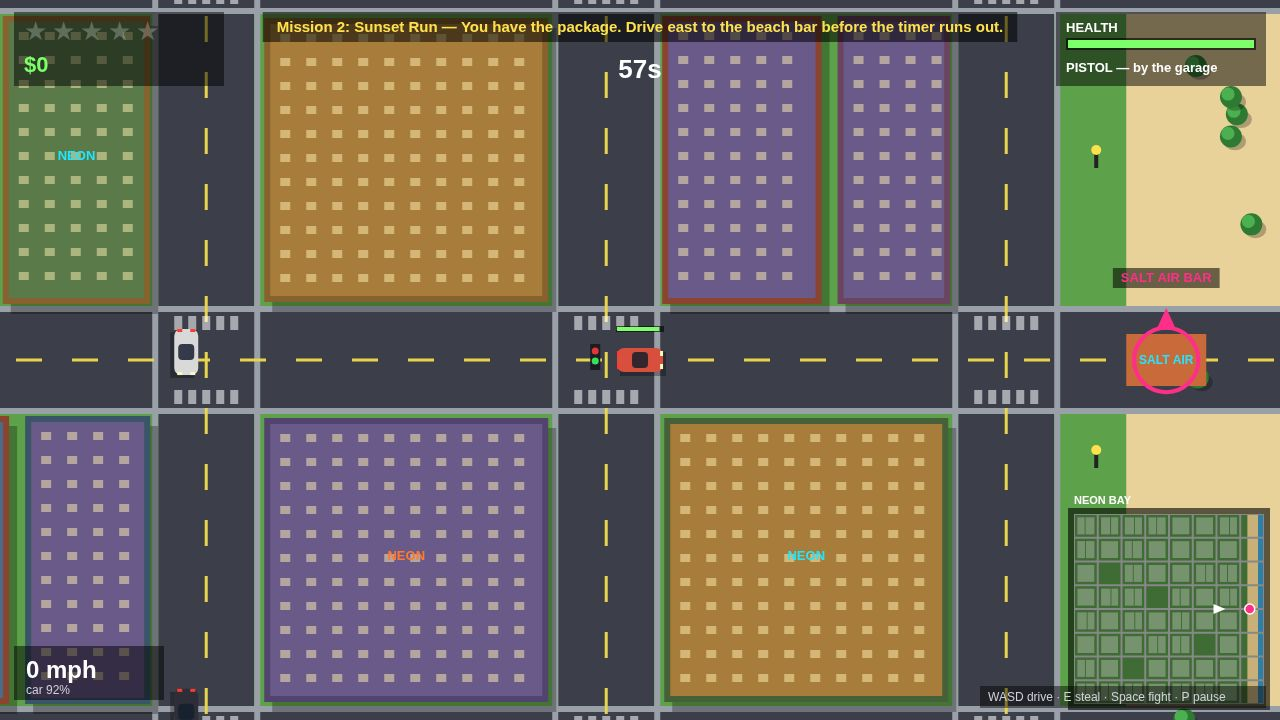
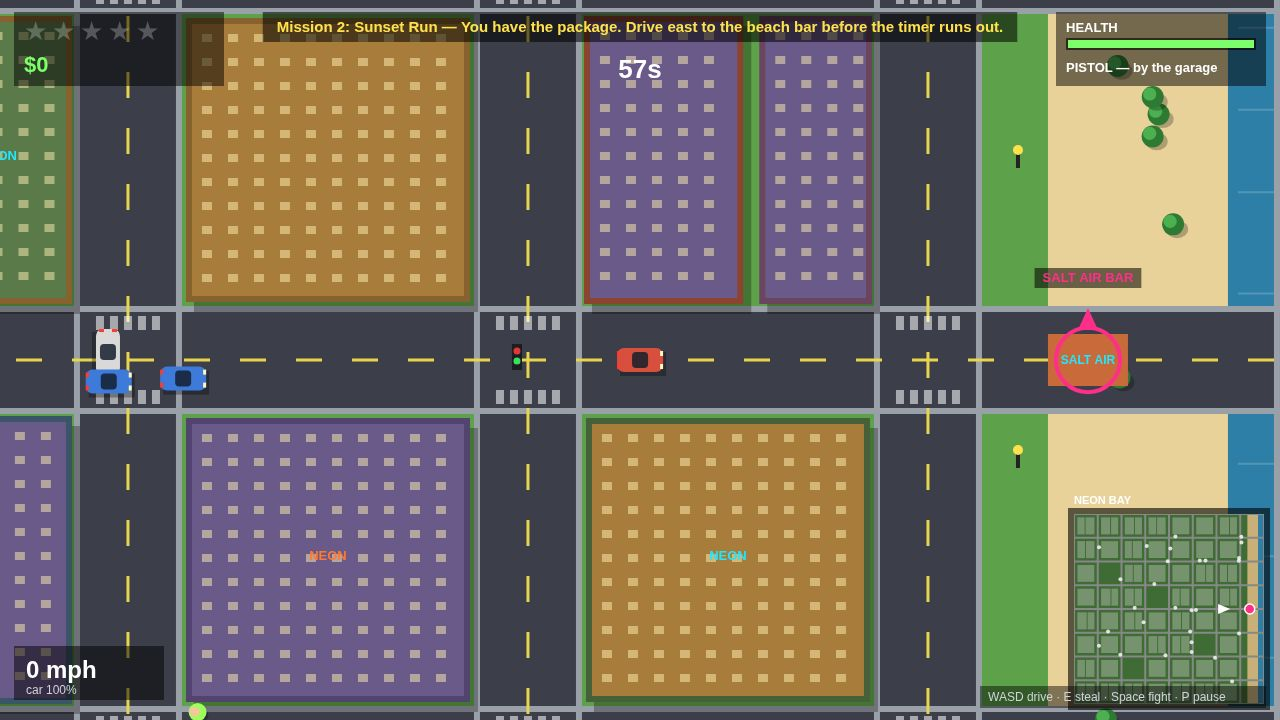
Fix browser-playtest blockers: survivable police rams, denser traffic, E cooldown, click-to-shoot, reachable garage/safehouse
- Police rams hurt the CAR only (no player damage through the car);
  one ram per 1.5s across all cruisers, 2s per-cruiser cooldown, cruisers
  back off after ramming and hold at 80px otherwise (no pinning)
- Traffic 14 -> 28 cars, replacements spawn near the player, 6s light
  cycle, stuck cars respawn after 8s, overlapping cars separated;
  minimap shows traffic dots
- E has a 0.7s cooldown after stealing/exiting (no double-press exit)
- Mouse click/hold shoots the pistol (rate-limited, muzzle flash, tracer)
- Garage and safehouse moved onto streets: both old spots sat inside
  buildings and were unreachable (mission 1/3/5 could never complete)
- Screenshots regenerated

diff --git a/game/src/world.js b/game/src/world.js
@@ -8,7 +8,7 @@
   const CFG = NBN.CFG;
 
   const CAR_COLORS = ['#d94f3d', '#3d7ad9', '#e8c33d', '#7a3dd9', '#3dd9a0', '#d9d9d9', '#2e2e38', '#e07a2e'];
-  const MAX_TRAFFIC = 14;
+  const MAX_TRAFFIC = CFG.TRAFFIC_MAX;
   const MAX_PEDS = 22;
 
   let S = null; // world state
@@ -17,6 +17,7 @@
     return {
       x, y, angle, speed: 0, kind, color: color || NBN.pick(CAR_COLORS),
       health: 100, dir: 0, street: 0, turnAt: 0, stopped: false, ramCd: 0, crashCd: 0,
+      backoff: 0, stuckT: 0,
       siren: kind === 'police', ai: kind === 'traffic' || kind === 'police',
     };
   }
@@ -29,7 +30,7 @@
         x: p.x, y: p.y, angle: -Math.PI / 2, speed: 0,
         health: CFG.PLAYER_HEALTH, money: save ? save.money : 0,
         wanted: 0, inCar: null, invuln: CFG.SPAWN_INVULN_SECONDS,
-        ammo: 0, hasPistol: false, punchCd: 0, lastHit: {},
+        ammo: 0, hasPistol: false, punchCd: 0, carCd: 0, lastHit: {},
         quietTime: 0, lastCrime: -99, sprinting: false,
       },
       cars: [],
@@ -41,6 +42,7 @@
       floats: [], // floating text {x,y,txt,life,color}
       flash: 0, // red damage vignette 0..1
       shake: 0,
+      ramGate: -99, // time of the last police ram (any cruiser): one ram per gate
       missionsDone: save ? save.missionsDone.slice() : [],
       bestWanted: save ? save.bestWanted : 0,
       over: null, // 'wasted' | 'busted' | null
@@ -52,9 +54,14 @@
 
   function init(save) {
     S = newState(save);
-    // Parked cars around the city, plus a few near spawn.
-    for (let i = 0; i < 9; i++) {
+    // Parked cars around the city, plus two near spawn so the first steal
+    // (mission 1) is a short walk, not a blind hunt across the city.
+    for (let i = 0; i < CFG.PARKED_CARS; i++) {
       const spot = randomRoadSpot();
+      S.cars.push(makeCar(spot.x, spot.y, spot.angle, 'parked'));
+    }
+    for (let i = 0; i < 2; i++) {
+      const spot = nearSpawnSpot();
       S.cars.push(makeCar(spot.x, spot.y, spot.angle, 'parked'));
     }
     // The marked yellow coupe for mission 4, parked in its lot.
@@ -80,8 +87,28 @@
     return { x: 1200, y: 1200, angle: 0 };
   }
 
+  // A road spot close to the spawn park (for the two starter parked cars).
+  function nearSpawnSpot() {
+    const p = NBN.PLACES.spawnPark;
+    for (let tries = 0; tries < 30; tries++) {
+      const spot = randomRoadSpot();
+      if (NBN.dist(spot.x, spot.y, p.x, p.y) < 650) return spot;
+    }
+    return { x: 420, y: 1000, angle: 0 };
+  }
+
   function spawnTrafficCar(anywhere) {
-    const spot = randomRoadSpot();
+    // Replacement cars spawn near the player (550–1100px away) so the streets
+    // around them stay busy; the initial batch may spawn anywhere.
+    let spot = randomRoadSpot();
+    if (!anywhere) {
+      for (let tries = 0; tries < 12; tries++) {
+        const cand = randomRoadSpot();
+        const d = NBN.dist(cand.x, cand.y, S.player.x, S.player.y);
+        spot = cand;
+        if (d > 550 && d < 1100) break;
+      }
+    }
     const c = makeCar(spot.x, spot.y, spot.angle, 'traffic');
     // Align to a street lane and pick a heading.
     const gx = Math.round(c.x / CFG.GRID) * CFG.GRID;
@@ -227,7 +254,9 @@
 
   function shoot() {
     const p = S.player;
-    if (p.inCar || !p.hasPistol || p.ammo <= 0 || S.over) return;
+    // punchCd is the fire-rate gate: one shot per 0.28s, whether the trigger
+    // is a Space press or a held mouse button.
+    if (p.inCar || !p.hasPistol || p.ammo <= 0 || p.punchCd > 0 || S.over) return;
     p.ammo--;
     p.punchCd = 0.28;
     NBN.audio.gunshot();
@@ -237,6 +266,8 @@
       x: p.x + Math.cos(a) * 22, y: p.y + Math.sin(a) * 22,
       vx: Math.cos(a) * 640, vy: Math.sin(a) * 640, life: 0.9, from: 'player',
     });
+    // Muzzle flash at the gun tip so the shot is unmistakable.
+    spawnBurst(p.x + Math.cos(a) * 26, p.y + Math.sin(a) * 26, '#ffe14d', 4);
     S.shake = Math.max(S.shake, 2);
   }
 
@@ -336,6 +367,41 @@
       const i = S.cars.indexOf(c);
       if (i >= 0) S.cars.splice(i, 1);
       spawnTrafficCar(false);
+      return;
+    }
+    // Stuck recovery: a car that has not moved for 8 seconds is in a jam that
+    // will never clear (deadlocked queue, abandoned player car, bad light) —
+    // respawn it on a fresh street instead of sitting there for minutes.
+    if (c.speed < 5) c.stuckT += dt;
+    else c.stuckT = 0;
+    if (c.stuckT > 8) {
+      const i = S.cars.indexOf(c);
+      if (i >= 0) S.cars.splice(i, 1);
+      spawnTrafficCar(false);
+    }
+  }
+
+  // Push overlapping traffic cars apart so two cars can never sit inside each
+  // other at an intersection after a turn.
+  function separateTraffic() {
+    const list = S.cars.filter((c) => c.kind === 'traffic');
+    for (let i = 0; i < list.length; i++) {
+      for (let j = i + 1; j < list.length; j++) {
+        const a = list[i];
+        const b = list[j];
+        const dx = b.x - a.x;
+        const dy = b.y - a.y;
+        const d = Math.hypot(dx, dy);
+        if (d > 0.01 && d < 44) {
+          const push = (44 - d) / 2;
+          const ux = dx / d;
+          const uy = dy / d;
+          a.x -= ux * push;
+          a.y -= uy * push;
+          b.x += ux * push;
+          b.y += uy * push;
+        }
+      }
     }
   }
 
@@ -371,9 +437,27 @@
       c.speed = Math.max(0, c.speed - 300 * dt);
       return;
     }
+    // Backing off after a ram: reverse away from the player, no chase, no ram.
+    // This is what stops a cruiser pinning the player's car after it hits.
+    if (c.backoff > 0) {
+      c.backoff -= dt;
+      c.speed = NBN.lerp(c.speed, -150, Math.min(1, dt * 3));
+      const bx = c.x + Math.cos(c.angle) * c.speed * dt;
+      const by = c.y + Math.sin(c.angle) * c.speed * dt;
+      if (!NBN.city.hitBuilding(bx, c.y, 20)) c.x = bx;
+      if (!NBN.city.hitBuilding(c.x, by, 20)) c.y = by;
+      return;
+    }
+    if (c.ramCd > 0) c.ramCd -= dt;
+    // One ram at a time, across ALL cruisers: this cruiser may ram only when
+    // its own cooldown is up AND no cruiser has rammed in the last gate window.
+    const ramReady = c.ramCd <= 0 && (S.time - S.ramGate) >= CFG.RAM_GATE_SECONDS;
     const diff = NBN.angleDiff(c.angle, wantAngle);
     c.angle += NBN.clamp(diff, -2.4 * dt, 2.4 * dt);
-    const target = d > 260 ? 330 : d > 90 ? 260 : 120;
+    // A cruiser that may not ram yet holds at a distance instead of pushing
+    // into the player's car — so two cruisers can never pin it at once.
+    const target = (p.inCar && d < CFG.RAM_HOLD_DIST && !ramReady) ? 0
+      : d > 260 ? 330 : d > 90 ? 260 : 120;
     c.speed = NBN.lerp(c.speed, target, Math.min(1, dt * 1.5));
     const nx = c.x + Math.cos(c.angle) * c.speed * dt;
     const ny = c.y + Math.sin(c.angle) * c.speed * dt;
@@ -381,17 +465,19 @@
     const r = 20;
     if (!NBN.city.hitBuilding(nx, c.y, r)) c.x = nx;
     if (!NBN.city.hitBuilding(c.x, ny, r)) c.y = ny;
-    // Ram the player's car (damage capped by damagePlayer's cooldown, and
-    // rate-limited per cruiser so three cars cannot shred it in one second).
-    if (c.ramCd > 0) c.ramCd -= dt;
-    if (p.inCar && d < 52 && c.ramCd <= 0) {
-      c.ramCd = 0.8;
-      damagePlayer(CFG.RAM_DAMAGE, 'ram');
+    // Ram the player's car: a shove, not a shredder. One ram per gate across
+    // all cruisers, then this cruiser backs off instead of chain-ramming.
+    // A ram hurts the CAR only — the driver is shielded inside it. The car
+    // is the stakes: lose it and you are on foot with the whole Bay PD.
+    if (p.inCar && d < 52 && ramReady) {
+      S.ramGate = S.time;
+      c.ramCd = CFG.RAM_COOLDOWN;
+      c.backoff = CFG.RAM_BACKOFF_SECONDS;
       const car = p.inCar;
-      car.health = Math.max(0, car.health - 3);
+      car.health = Math.max(0, car.health - CFG.RAM_CAR_DAMAGE);
       spawnBurst(car.x, car.y, '#ffe14d', 5);
       if (car.health <= 0) explodeCar(car);
-      c.speed *= 0.5;
+      c.speed = -150;
     }
     // Foot cop steps out when the player is on foot and wanted is high.
     if (!p.inCar && S.player.wanted >= 2 && d < 200 && S.cops.length < S.player.wanted && NBN.rng() < dt * 0.5) {
@@ -468,6 +554,7 @@
     const inp = NBN.input;
     if (p.invuln > 0) p.invuln -= dt;
     if (p.punchCd > 0) p.punchCd -= dt;
+    if (p.carCd > 0) p.carCd -= dt;
     if (S.over) return;
 
     // Mouse aim on foot.
@@ -478,14 +565,23 @@
       if (NBN.dist(p.x, p.y, wx, wy) > 20) p.angle = NBN.angleTo(p.x, p.y, wx, wy);
     }
 
-    if (inp.hit('KeyE')) {
-      if (p.inCar) exitCar();
-      else if (stealCar()) { /* stolen */ }
+    // E is NOT a toggle: after stealing or exiting, E is dead for a beat so a
+    // quick double-press cannot steal and then instantly throw you back out.
+    if (inp.hit('KeyE') && p.carCd <= 0) {
+      if (p.inCar) {
+        exitCar();
+        p.carCd = CFG.ENTER_COOLDOWN;
+      } else if (stealCar()) {
+        p.carCd = CFG.ENTER_COOLDOWN;
+      }
     }
     if (inp.hit('Space')) {
       if (p.hasPistol && p.ammo > 0) shoot();
       else punch();
     }
+    // Mouse click shoots too (hold to keep firing, rate-limited by punchCd) —
+    // the pistol aims at the mouse on foot, so a click must do something.
+    if (NBN.input.mouse.down && !p.inCar && p.hasPistol) shoot();
 
     if (p.inCar) {
       const car = p.inCar;
@@ -522,7 +618,9 @@
       // rate-limited so one overlap cannot shred a car in a few frames.
       if (car.crashCd > 0) car.crashCd -= dt;
       for (const o of S.cars) {
-        if (o === car || o.kind === 'parked') continue;
+        // Police contact is the ram logic's job, not a crash: reversing into a
+        // cruiser that is already ramming you must not shred your car.
+        if (o === car || o.kind === 'parked' || o.kind === 'police') continue;
         if (car.crashCd <= 0 && NBN.dist(car.x, car.y, o.x, o.y) < 44 && Math.abs(car.speed) > 120) {
           car.crashCd = 0.8;
           damagePlayer(CFG.TRAFFIC_HIT_DAMAGE, 'crash');
@@ -667,8 +765,9 @@
 
     // Traffic / ped top-up.
     const trafficN = S.cars.filter((c) => c.kind === 'traffic').length;
-    if (trafficN < MAX_TRAFFIC && NBN.rng() < dt * 0.5) spawnTrafficCar(false);
+    if (trafficN < MAX_TRAFFIC && NBN.rng() < dt * CFG.TRAFFIC_TOPUP) spawnTrafficCar(false);
     if (S.peds.length < MAX_PEDS && NBN.rng() < dt * 0.5) spawnPed(false);
+    separateTraffic();
 
     for (let i = S.particles.length - 1; i >= 0; i--) {
       const pt = S.particles[i];

diff --git a/game/src/config.js b/game/src/config.js
@@ -25,9 +25,17 @@
     CAR_REVERSE_MAX: 150,
     CAR_TURN: 2.9,
     STEAL_RADIUS: 120, // generous steal prompt radius
+    ENTER_COOLDOWN: 0.7, // seconds after stealing/exiting before E works again
+    TRAFFIC_MAX: 28, // traffic cars alive at once (the world is 3200x3200)
+    TRAFFIC_TOPUP: 1.5, // per-second chance to replace a missing traffic car
+    PARKED_CARS: 14, // parked cars to steal, plus the mission-4 coupe
     // Combat / damage (capped so one hit can never gut the player)
     TRAFFIC_HIT_DAMAGE: 4,
-    RAM_DAMAGE: 6,
+    RAM_CAR_DAMAGE: 1, // car condition lost per ram (rams hurt the CAR, not the driver)
+    RAM_COOLDOWN: 2.0, // seconds before one cruiser may ram again
+    RAM_GATE_SECONDS: 1.5, // one ram per 1.5s across ALL cruisers
+    RAM_BACKOFF_SECONDS: 1.6, // a cruiser reverses away this long after ramming
+    RAM_HOLD_DIST: 80, // cruisers that may not ram yet hold at this distance
     BULLET_DAMAGE: 8,
     PUNCH_DAMAGE: 12,
     HIT_COOLDOWN: 0.7, // seconds between damage ticks from one source
@@ -90,9 +98,9 @@
   // Key places in the city (world coordinates).
   NBN.PLACES = {
     spawnPark: { x: 600, y: 1000 }, // safe spawn: a park, away from traffic
-    garage: { x: 1400, y: 600 },
+    garage: { x: 1200, y: 600 }, // on the x=1200 street: the old spot sat inside a building
     saltAirBar: { x: 2960, y: 1600 },
-    safehouse: { x: 600, y: 2600 },
+    safehouse: { x: 600, y: 2400 }, // on the y=2400 street: the old spot sat inside a building
     vault: { x: 1600, y: 1400 },
     ricoPickup: { x: 2200, y: 2200 },
     coupeLot: { x: 1000, y: 2000 },

diff --git a/game/src/city.js b/game/src/city.js
@@ -80,7 +80,7 @@
     // Traffic lights at every other intersection, offset phases.
     for (let cx = 1; cx < cols; cx++) {
       for (let cy = 1; cy < cols; cy++) {
-        if ((cx + cy) % 2 === 0) lights.push({ x: cx * GRID, y: cy * GRID, phase: (cx * 7 + cy * 3) % 10 });
+        if ((cx + cy) % 2 === 0) lights.push({ x: cx * GRID, y: cy * GRID, phase: (cx * 7 + cy * 3) % 6 });
       }
     }
     // Street lamps along the beach boardwalk.
@@ -130,10 +130,11 @@
   }
 
   // Traffic light state at an intersection: true = green for east-west.
+  // Short 6s cycle (3s each way) so no one waits long at a red light.
   function lightGreen(light, t) {
-    const cycle = 10;
+    const cycle = 6;
     const phase = (t + light.phase) % cycle;
-    return phase < 5;
+    return phase < 3;
   }
 
   NBN.city = {

diff --git a/game/src/render.js b/game/src/render.js
@@ -388,11 +388,17 @@
     // Cars, sorted so the player's car draws last.
     const cars = S.cars.slice().sort((a, b) => (a.kind === 'player' ? 1 : 0) - (b.kind === 'player' ? 1 : 0));
     for (const c of cars) drawCar(ctx, c);
-    // Bullets.
-    ctx.fillStyle = '#ffe14d';
+    // Bullets: bright tracer line + dot, so a shot is unmistakable.
+    ctx.strokeStyle = '#ffe14d';
+    ctx.lineWidth = 3;
+    ctx.fillStyle = '#fff3b0';
     for (const b of S.bullets) {
       ctx.beginPath();
-      ctx.arc(b.x, b.y, 3, 0, Math.PI * 2);
+      ctx.moveTo(b.x - b.vx * 0.02, b.y - b.vy * 0.02);
+      ctx.lineTo(b.x, b.y);
+      ctx.stroke();
+      ctx.beginPath();
+      ctx.arc(b.x, b.y, 4, 0, Math.PI * 2);
       ctx.fill();
     }
     // Particles.

diff --git a/game/src/minimap.js b/game/src/minimap.js
@@ -66,6 +66,14 @@
       ctx.arc(x0 + c.x * SCALE, y0 + c.y * SCALE, 3.5, 0, Math.PI * 2);
       ctx.fill();
     }
+    // Traffic as pale dots so the player can spot a car to steal.
+    ctx.fillStyle = 'rgba(255,255,255,0.8)';
+    for (const c of S.cars) {
+      if (c.kind !== 'traffic') continue;
+      ctx.beginPath();
+      ctx.arc(x0 + c.x * SCALE, y0 + c.y * SCALE, 2, 0, Math.PI * 2);
+      ctx.fill();
+    }
     // Player: white arrow.
     const p = S.player;
     ctx.save();
